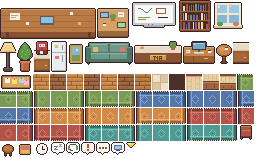
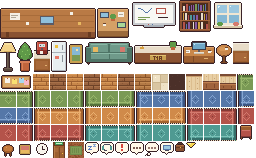
People come and go through an exit door
Disconnected people think for 5s (they may be back), then grab their bag and
walk out through a new EXIT door in the Lobby before going offline. Returning
people walk in through it, bag in hand, to a random free Lobby tile.
Also: VITE_PORT/DECK_PORT so a worktree can run beside the main checkout.

Changed region(s): [[0.1875, 0.8861, 0.7812, 1.0]]

diff --git a/server/src/world.ts b/server/src/world.ts
@@ -3,7 +3,7 @@ import {
   findPath, isWalkable, pathDuration, roomAt, sampleMove, WALK_MS_PER_TILE,
   type Dir, type TileMap, type Tile,
 } from '../../shared/map';
-import type { ClientMsg, Knock, Look, Presence, PublicUser, ServerMsg } from '../../shared/protocol';
+import type { ClientMsg, Door, Knock, Look, Presence, PublicUser, ServerMsg } from '../../shared/protocol';
 
 export interface User extends PublicUser {
   path: Tile[] | null; // path of the current move (server-side bookkeeping)
@@ -26,11 +26,17 @@ export const lookFor = (name: string): Look => {
 
 type Send = (msg: ServerMsg) => void;
 
+const LEAVE_GRACE_MS = 5000; // a dropped tab or quick re-login shouldn't send anyone home
+const DOOR_PAUSE_MS = 400;   // a beat at the door before vanishing
+/** Packing up or walking out: not around any more, as far as knocks go. */
+const goingOut = (u: User) => u.door === 'thinking' || u.door === 'leaving';
+
 export class World {
   users = new Map<string, User>();
   knocks = new Map<string, Knock & { timer?: NodeJS.Timeout }>();
   private sockets = new Map<string, Set<Send>>();
   private listeners = new Set<Send>();
+  private doorTimers = new Map<string, NodeJS.Timeout>();
 
   constructor(public map: TileMap) {}
 
@@ -52,13 +58,69 @@ export class World {
     this.sockets.get(userId)!.add(send);
     this.listeners.add(send);
     send({ t: 'hello', you: userId, serverTime: Date.now() });
-    if (u.presence === 'offline') { u.presence = 'online'; this.broadcast({ t: 'presence', userId, presence: 'online' }); }
+    this.stayAfterAll(u);
+    if (u.presence === 'offline') this.comeIn(u);
     send(this.snapshot());
     return () => {
       this.listeners.delete(send);
       const set = this.sockets.get(userId)!; set.delete(send);
-      if (set.size === 0 && !u.bot) { u.presence = 'offline'; this.broadcast({ t: 'presence', userId, presence: 'offline' }); }
+      if (set.size === 0 && !u.bot) this.startLeaving(u);
     };
+  }
+
+  // ---------- arriving & leaving ----------
+  /** Back from offline: step in through the exit door, bag in hand, and walk to the lobby. */
+  private comeIn(u: User) {
+    const to = this.freeLobbyTile(); // before going online, so their own old tile doesn't count as taken
+    u.tile = { ...this.map.exit }; u.move = null; u.path = null; u.dir = 'down';
+    this.setDoor(u, 'arriving');
+    this.setPresence(u, 'online');
+    const at = this.walk(u, to) ?? Date.now();
+    this.doorTimer(u, () => this.setDoor(u, null), Math.max(0, at - Date.now()));
+  }
+  /** A random free Lobby tile, kept clear of the doorway; the spawn point if the Lobby is packed. */
+  private freeLobbyTile(): Tile {
+    const lobby = this.map.rooms.find(r => r.id === 'lobby');
+    if (!lobby) return this.map.spawn;
+    const occ = this.occupied(), { exit } = this.map, { x: rx, y: ry, w, h } = lobby.rect;
+    const free: Tile[] = [];
+    for (let y = ry; y < ry + h; y++) for (let x = rx; x < rx + w; x++) {
+      if (!isWalkable(this.map, x, y) || occ.has(`${x},${y}`)) continue;
+      if (Math.abs(x - exit.x) + Math.abs(y - exit.y) < 2) continue;
+      free.push({ x, y });
+    }
+    return free.length ? free[Math.floor(Math.random() * free.length)] : this.map.spawn;
+  }
+  /** Last socket closed: think it over for a moment, then grab the bag and head out. */
+  private startLeaving(u: User) {
+    this.setDoor(u, 'thinking');
+    this.doorTimer(u, () => {
+      for (const k of this.knocks.values()) if (k.fromId === u.id && (k.state === 'walking' || k.state === 'pending')) this.closeKnock(k, 'later', 'Knock cancelled');
+      this.setDoor(u, 'leaving');
+      const at = this.walk(u, this.map.exit, 'up') ?? Date.now();
+      this.doorTimer(u, () => {
+        this.setDoor(u, null);
+        this.setPresence(u, 'offline');
+      }, Math.max(0, at - Date.now()) + DOOR_PAUSE_MS);
+    }, LEAVE_GRACE_MS);
+  }
+  /** Reconnected before they were out the door: put the bag down and stay where they are. */
+  private stayAfterAll(u: User) {
+    if (!goingOut(u)) return; // e.g. a second tab while still walking in
+    this.doorTimer(u, null);
+    if (u.door === 'leaving' && u.move) this.walk(u, this.position(u).next);
+    this.setDoor(u, null);
+  }
+  /** One pending door step per person; a new one (or null) replaces it. */
+  private doorTimer(u: User, fn: (() => void) | null, ms = 0) {
+    clearTimeout(this.doorTimers.get(u.id));
+    this.doorTimers.delete(u.id);
+    if (fn) this.doorTimers.set(u.id, setTimeout(() => { this.doorTimers.delete(u.id); fn(); }, ms));
+  }
+  private setDoor(u: User, door: Door) {
+    if (u.door === door) return;
+    u.door = door;
+    this.broadcast({ t: 'door', userId: u.id, door });
   }
 
   // ---------- users ----------
@@ -66,7 +128,7 @@ export class World {
     const u: User = {
       email,
       id: randomUUID().slice(0, 8), name, look: lookFor(name), tile: tile ?? { ...this.map.spawn }, dir: 'down',
-      move: null, path: null, presence: bot ? 'online' : 'offline', status: '', emote: null, bot,
+      move: null, path: null, presence: bot ? 'online' : 'offline', status: '', emote: null, bot, door: null,
     };
     this.users.set(u.id, u);
     this.broadcast(this.snapshot());
@@ -123,11 +185,12 @@ export class World {
 
   // ---------- knock ----------
   knock(from: User, to: User) {
-    if (from.id === to.id || to.presence === 'offline') return;
+    if (from.id === to.id || to.presence === 'offline' || goingOut(from)) return;
     for (const k of this.knocks.values()) if (k.fromId === from.id && (k.state === 'walking' || k.state === 'pending')) this.closeKnock(k, 'later');
     const k: Knock & { timer?: NodeJS.Timeout } = { id: randomUUID().slice(0, 8), fromId: from.id, toId: to.id, state: 'walking' };
     this.knocks.set(k.id, k);
     const room = this.roomOf(to);
+    if (goingOut(to)) return this.closeKnock(k, 'blocked', `${to.name} is heading out`);
     if (room?.rules.knock === 'disabled') {
       return this.closeKnock(k, 'blocked', `${to.name} is in ${room.name} — ${room.rules.label ?? 'no knocking'}`);
     }
@@ -153,6 +216,7 @@ export class World {
     const from = this.users.get(k.fromId), to = this.users.get(k.toId);
     if (!from || !to || k.state !== 'walking') return;
     const room = this.roomOf(to);
+    if (goingOut(to)) return this.closeKnock(k, 'blocked', `${to.name} is heading out`);
     if (room?.rules.knock === 'disabled') return this.closeKnock(k, 'blocked', `${to.name} moved into ${room.name} — no knocking`);
     // face the person
     const a = this.position(from).tile, b = this.position(to).tile;
@@ -194,6 +258,7 @@ export class World {
     switch (msg.t) {
       case 'move': {
         for (const k of this.knocks.values()) if (k.fromId === u.id && k.state === 'walking') this.closeKnock(k, 'later', 'Knock cancelled');
+        if (u.door === 'arriving') { this.doorTimer(u, null); this.setDoor(u, null); } // off on their own way: bag's put away
         this.walk(u, { x: msg.to.x | 0, y: msg.to.y | 0 });
         break;
       }
@@ -216,7 +281,7 @@ export class World {
   load(data: ReturnType<World['dump']>) {
     for (const d of data.users ?? []) {
       const tile = isWalkable(this.map, d.tile.x, d.tile.y) ? d.tile : { ...this.map.spawn };
-      this.users.set(d.id, { ...d, tile, move: null, path: null, emote: null, presence: d.bot ? d.presence : 'offline' });
+      this.users.set(d.id, { ...d, tile, move: null, path: null, emote: null, door: null, presence: d.bot ? d.presence : 'offline' });
     }
   }
 }

diff --git a/client/src/engine.ts b/client/src/engine.ts
@@ -10,7 +10,11 @@ const MW = MAP.width * TS, MH = MAP.height * TS;
 const DIR_ROW: Record<string, number> = { down: 0, left: 1, right: 2, up: 3 };
 const WALK_FPS = 8; // 4 frames per tile at 4 tiles/s
 
-type BubbleKind = 'bubble_bang' | 'bubble_headset' | 'bubble_zzz' | 'bubble_meeting' | 'bubble_dots';
+type BubbleKind = 'bubble_bang' | 'bubble_headset' | 'bubble_zzz' | 'bubble_meeting' | 'bubble_dots' | 'bubble_think';
+// where the bag hangs when carried, per facing; behind = drawn before the body
+const BAG_HAND: Record<string, { dx: number; behind: boolean }> = {
+  down: { dx: 10, behind: false }, up: { dx: -3, behind: false }, left: { dx: 7, behind: true }, right: { dx: -1, behind: true },
+};
 
 const hash = (s: string) => { let h = 0; for (const c of s) h = (h * 31 + c.charCodeAt(0)) | 0; return Math.abs(h); };
 
@@ -259,12 +263,23 @@ export class Engine {
       bob = u.presence === 'away' ? (phase < 900 ? 1 : 0) : phase < 300 ? 1 : 0; // tiny breathing bob
     }
     const row = DIR_ROW[p.dir] ?? 0;
-    ctx.globalAlpha = u.presence === 'away' ? 0.8 : 1;
+    // the bag: in hand walking in and out, on the floor while they think about leaving
+    const hand = BAG_HAND[p.dir] ?? BAG_HAND.down;
+    const swing = p.walking && frame % 2 ? 1 : 0;
+    const carrying = u.door === 'arriving' || u.door === 'leaving';
+    const drawBag = () => this.blit(ctx, 'bag', x + hand.dx, baseY - 13 + swing);
+    if (u.door === 'thinking') this.blit(ctx, 'bag', x + 11, baseY - 9);
+    if (carrying && hand.behind) drawBag();
+    // at the door: already half out
+    ctx.globalAlpha = u.door === 'leaving' && !p.walking ? 0.45 : u.presence === 'away' ? 0.8 : 1;
     ctx.drawImage(sheet, frame * c.frameW, row * c.frameH, c.frameW, c.frameH, x, baseY - c.frameH + bob - 1, c.frameW, c.frameH);
+    if (carrying && !hand.behind) drawBag();
     ctx.globalAlpha = 1;
   }
 
   private bubbleFor(u: ClientUser, p: Pose): BubbleKind | null {
+    if (u.door === 'thinking') return 'bubble_think';
+    if (u.door === 'leaving') return null;
     if (u.emote === 'knock') return 'bubble_bang';
     if (u.presence === 'in_call') return 'bubble_headset';
     if (u.presence === 'away') return 'bubble_zzz';
@@ -362,10 +377,11 @@ export class Engine {
     const ctx = this.ctx;
     const dpr = window.devicePixelRatio || 1;
     const room = roomAt(MAP, p.tile.x, p.tile.y);
-    const presence = u.presence === 'in_call' ? 'in a call' : u.presence === 'away' ? 'away' : room?.rules.occupantLabel ?? 'around';
+    const presence = u.door === 'thinking' ? 'packing up…' : u.door === 'leaving' ? 'heading out' : u.door === 'arriving' ? 'just arrived'
+      : u.presence === 'in_call' ? 'in a call' : u.presence === 'away' ? 'away' : room?.rules.occupantLabel ?? 'around';
     const lines = [`${u.name}${u.id === this.store.me ? ' (you)' : ''} · ${presence}`];
     if (u.status) lines.push(`“${u.status}”`);
-    if (u.id !== this.store.me) lines.push(room?.rules.knock === 'disabled' ? `${room.name}: no knocking` : 'click to knock');
+    if (u.id !== this.store.me && u.door !== 'thinking' && u.door !== 'leaving') lines.push(room?.rules.knock === 'disabled' ? `${room.name}: no knocking` : 'click to knock');
     ctx.setTransform(dpr, 0, 0, dpr, 0, 0);
     ctx.font = '600 12px ui-rounded, system-ui, sans-serif';
     const w = Math.max(...lines.map(l => ctx.measureText(l).width)) + 16, lh = 16, hgt = lines.length * lh + 10;

diff --git a/shared/protocol.ts b/shared/protocol.ts
@@ -2,13 +2,16 @@ import type { Dir, Move, Tile } from './map';
 
 export type Presence = 'online' | 'away' | 'in_call' | 'offline';
 export type Emote = 'knock' | null;
+/** Coming and going through the exit door: arrive bag in hand; when disconnected, think for a moment
+ *  (they may be back), then grab the bag and walk out. */
+export type Door = 'arriving' | 'thinking' | 'leaving' | null;
 
 export interface Look { skin: string; hair: string; shirt: string; pants: string; style: number }
 
 export interface PublicUser {
   id: string; name: string; look: Look;
   tile: Tile; dir: Dir; move: Move | null;
-  presence: Presence; status: string; emote: Emote; bot: boolean;
+  presence: Presence; status: string; emote: Emote; bot: boolean; door: Door;
 }
 
 export interface Knock {
@@ -24,6 +27,7 @@ export type ServerMsg =
   | { t: 'status'; userId: string; status: string }
   | { t: 'presence'; userId: string; presence: Presence }
   | { t: 'emote'; userId: string; emote: Emote }
+  | { t: 'door'; userId: string; door: Door }
   | { t: 'knock'; knockId: string; fromId: string; toId: string }
   | { t: 'knock_reply'; knockId: string; fromId: string; toId: string; reply: 'accept' | 'later' | 'blocked'; link?: string; reason?: string };
 

diff --git a/server/src/bots.ts b/server/src/bots.ts
@@ -67,7 +67,7 @@ export function startBots(world: World, count = 4) {
       else if (r < 0.88) { world.setPresence(b, 'in_call'); presenceUntil.set(b.id, now + 25000 + Math.random() * 40000); if (Math.random() < 0.6) goSomewhere(b, 'meeting'); }
       else if (r < 0.92) {
         // occasionally knock on a human who is online, so solo testing sees incoming knocks
-        const humans = [...world.users.values()].filter(u => !u.bot && u.presence === 'online');
+        const humans = [...world.users.values()].filter(u => !u.bot && u.presence === 'online' && u.door !== 'thinking' && u.door !== 'leaving');
         const others = bots().filter(o => o.id !== b.id && o.presence === 'online');
         const target = humans.length && Math.random() < 0.5 ? pick(humans) : others.length ? pick(others) : null;
         if (target) world.knock(b, target);

diff --git a/client/src/App.tsx b/client/src/App.tsx
@@ -184,7 +184,7 @@ function RoomList({ store, onPick, onClose }: { store: Store; onPick: (id: strin
                   <li key={id} onClick={() => onPick(id)} title={u.status || undefined}>
                     <i style={{ background: PRESENCE_COLOR[u.presence] }} />
                     <span className={id === store.me ? 'me' : ''}>{u.name}</span>
-                    {u.status && <em>{u.status}</em>}
+                    {u.door ? <em>{{ arriving: 'just arrived', thinking: 'packing up…', leaving: 'heading out' }[u.door]}</em> : u.status && <em>{u.status}</em>}
                   </li>
                 );
               })}

diff --git a/client/vite.config.ts b/client/vite.config.ts
@@ -1,14 +1,17 @@
 import { defineConfig } from 'vite';
 import react from '@vitejs/plugin-react';
 
+// VITE_PORT / DECK_PORT let a second checkout (e.g. a worktree) run beside the main one
+const api = `localhost:${process.env.DECK_PORT ?? 8787}`;
+
 export default defineConfig({
   plugins: [react()],
   server: {
-    port: 5173,
+    port: Number(process.env.VITE_PORT ?? 5173),
     fs: { allow: ['..'] },
     proxy: {
-      '/api': 'http://localhost:8787',
-      '/ws': { target: 'ws://localhost:8787', ws: true },
+      '/api': `http://${api}`,
+      '/ws': { target: `ws://${api}`, ws: true },
     },
   },
 });

diff --git a/client/src/net.ts b/client/src/net.ts
@@ -118,6 +118,7 @@ export class Store {
       case 'status': { const u = this.users.get(msg.userId); if (u) u.status = msg.status; break; }
       case 'presence': { const u = this.users.get(msg.userId); if (u) u.presence = msg.presence; break; }
       case 'emote': { const u = this.users.get(msg.userId); if (u) u.emote = msg.emote; break; }
+      case 'door': { const u = this.users.get(msg.userId); if (u) u.door = msg.door; break; }
       case 'knock': {
         const from = this.users.get(msg.fromId), to = this.users.get(msg.toId);
         if (from && to) { // knocker turns to face the person

diff --git a/shared/map.ts b/shared/map.ts
@@ -20,6 +20,7 @@ export interface TileMap {
   tiles: string[];
   layers: { floor: number[][]; walls: number[][]; walkable: number[][] };
   rooms: Room[]; objects: MapObject[]; spawn: Tile;
+  exit: Tile; // where people walk to leave, and appear when they come back
 }
 
 export const WALK_MS_PER_TILE = 250; // 4 tiles/s
